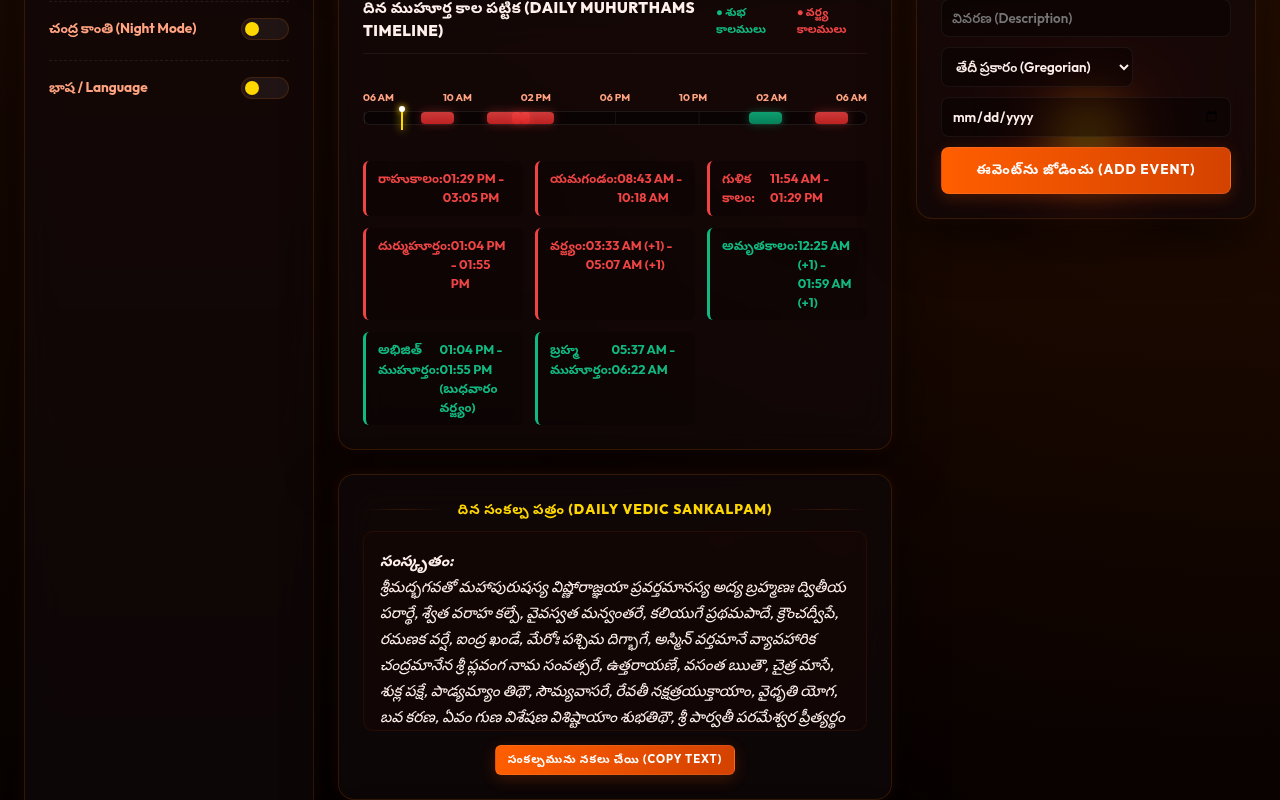
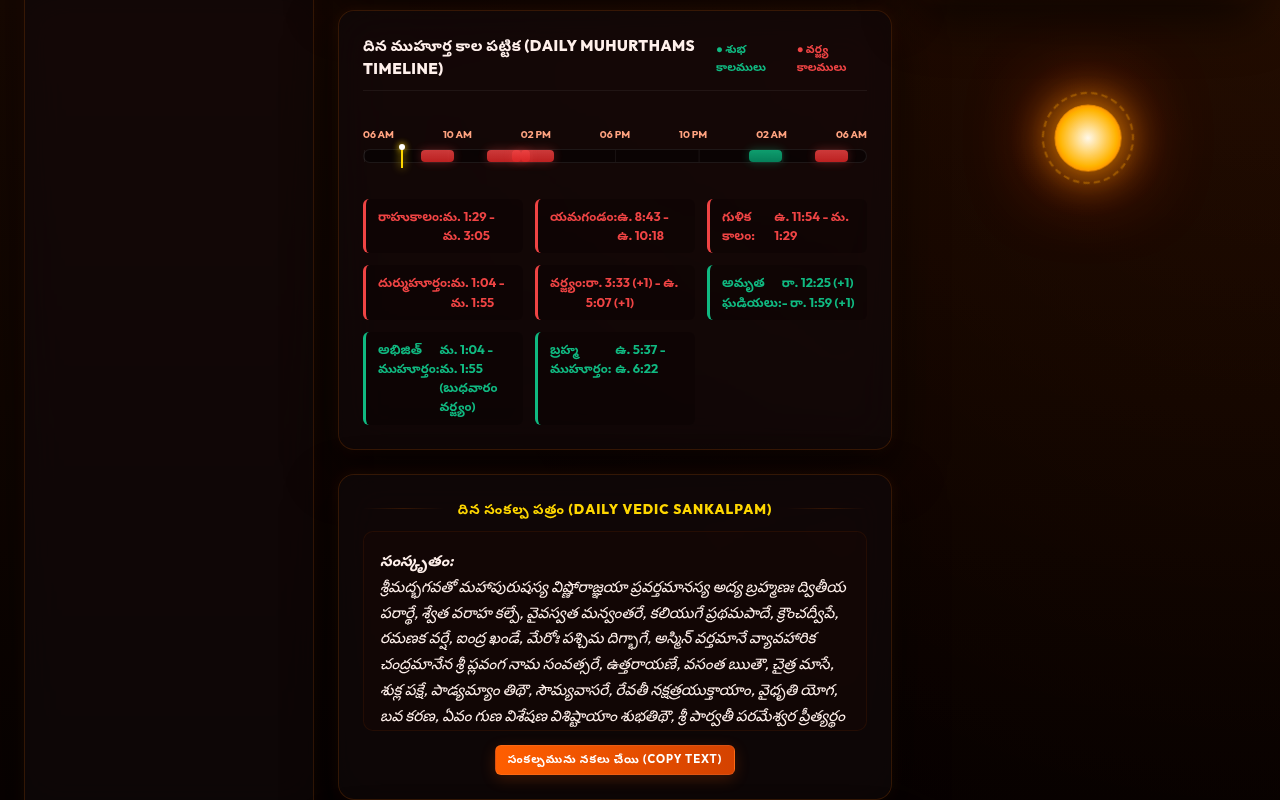
Integrate the review-plan lanes: cross-lane fixes, layout fixes, screenshots
- Show named Ekadashis in the calendar, upcoming strip and print view.
- Birthday banner text covers the janma-tithi fallback.
- One event for the Sun entering Dhanus (Dhanurmasam start), not two.
- Print view uses the Telugu day-part clock in Telugu mode.
- core/i18n tithiLabel(): no paksha prefix on Purnima and Amavasya
  (fixes 'Krishna Amavasya'); used by the new tab, print view and share card.
- Calendar grid columns use minmax(0, 1fr) so long festival badges
  truncate instead of pushing Friday/Saturday out of the card.
- Clock card: the sun path shrinks beside the clock instead of clipping
  the sunset label at 1280px.
- Screenshot script seeds a returning user so onboarding doesn't cover
  the shots; screenshots regenerated.
- Changelog and plan status updated.

Claude-Session: https://claude.ai/code/session_01Pu4SSUaa4HZ38UCLnhaiD6

diff --git a/newtab.js b/newtab.js
@@ -4,7 +4,7 @@
  */
 
 import { createEngine } from './core/index.js';
-import { name as coreName } from './core/i18n.js';
+import { name as coreName, tithiLabel } from './core/i18n.js';
 import { TITHI, MASA, NAKSHATRA } from './core/ids.js';
 import { generateSankalpam } from './core/sankalpam.js';
 import { dailyHoroscope } from './core/horoscope.js';
@@ -472,7 +472,7 @@ import { initRatingPrompt } from './ui/rating.js';
 
     // 3. Render Panchang card values (paksha + tithi, e.g. "బహుళ నవమి")
     const cal = activePanchang.calendar;
-    elPanchangTithi.textContent = `${nm(cal.paksha.id)} ${nm(p.tithi.id)}`;
+    elPanchangTithi.textContent = tithiLabel(p.tithi.id, window.I18N.getLang());
     elPanchangTithiTime.textContent = formatTransitionText(p.tithi.spans);
 
     elPanchangNaks.textContent = `${nm(p.nakshatra.id)} (${p.nakshatra.pada})`;
@@ -702,11 +702,11 @@ import { initRatingPrompt } from './ui/rating.js';
     if (festivals.length > 0) {
       const elFest = document.createElement('span');
       elFest.className = 'day-festivals';
-      elFest.textContent = nm(festivals[0].id);
+      elFest.textContent = nm(festivals[0].nameId || festivals[0].id);
       // English adds why the rule picked this day (traces are English); Telugu keeps the names.
       elFest.title = window.I18N.getLang() === 'en'
-        ? festivals.map((f) => `${coreName(f.id, 'en')}: ${traceReason(f)}`).join('\n')
-        : festivals.map((f) => `${coreName(f.id, 'te')} (${coreName(f.id, 'en')})`).join(", ");
+        ? festivals.map((f) => `${coreName(f.nameId || f.id, 'en')}: ${traceReason(f)}`).join('\n')
+        : festivals.map((f) => `${coreName(f.nameId || f.id, 'te')} (${coreName(f.nameId || f.id, 'en')})`).join(", ");
       cell.appendChild(elFest);
     }
 
@@ -739,7 +739,7 @@ import { initRatingPrompt } from './ui/rating.js';
       const shown = [...fests, ...vratas.filter((v) => !folded(v))];
       shown.forEach((ev) => {
         const twin = vratas.find((v) => v.parana && v.trace.tithi === ev.trace.tithi);
-        items.push({ date, id: ev.id, parana: ev.parana || (twin && twin.parana) });
+        items.push({ date, id: ev.nameId || ev.id, parana: ev.parana || (twin && twin.parana) });
       });
     }
 

diff --git a/print.js b/print.js
@@ -5,8 +5,8 @@
  */
 
 import { createEngine } from './core/index.js';
-import { name } from './core/i18n.js';
-import { TITHI, PAKSHA } from './core/ids.js';
+import { name, tithiLabel } from './core/i18n.js';
+import { formatClock } from './ui/time-format.js';
 
 const engine = createEngine({ Astronomy: window.Astronomy });
 const { I18N } = window;
@@ -20,7 +20,6 @@ const COLUMNS = [
 
 const unique = (list) => [...new Set(list)];
 const isFestival = (e) => e.id.startsWith('FESTIVAL_');
-const pakshaOf = (tithiId) => (TITHI.indexOf(tithiId) < 15 ? PAKSHA.SHUKLA : PAKSHA.KRISHNA);
 const storageGet = (key) => new Promise((resolve) => chrome.storage.local.get([key], (r) => resolve(r[key])));
 
 // A <tr> of `tag` cells holding the given texts.
@@ -94,7 +93,8 @@ async function render() {
 
   document.getElementById('print-head').replaceChildren(rowOf('th', COLUMNS.map(([te, en]) => I18N.teEn(te, en))));
 
-  const formatTime = (d) => d.toLocaleTimeString('en-US', { hour: 'numeric', minute: '2-digit', timeZone: tz });
+  // Telugu-style day-part clock (రా. 10:42) in Telugu, compact 12-hour time in English, as on the new tab.
+  const formatTime = (d) => (lang === 'en' ? d.toLocaleTimeString('en-US', { hour: 'numeric', minute: '2-digit', timeZone: tz }) : formatClock(d, tz, 'te'));
   document.getElementById('print-rows').replaceChildren(...days.map((day, i) => {
     // Clock time, with "(+1)" when it falls after midnight of this row's day, as on the new tab.
     const at = (instant) => {
@@ -117,7 +117,7 @@ async function render() {
     const row = rowOf('td', [
       String(i + 1),
       I18N.t(WEEKDAYS[p.vara.index]),
-      until(p.tithi.spans, (id) => `${nm(pakshaOf(id))} ${nm(id)}`),
+      until(p.tithi.spans, (id) => tithiLabel(id, lang)),
       until(p.nakshatra.spans, nm),
       nm(p.yoga.id),
       formatTime(day.astronomy.sunrise),
@@ -125,7 +125,7 @@ async function render() {
       win(tm.rahuKalam),
       wins(tm.durmuhurtham),
       wins(tm.varjyam),
-      unique(events.map((e) => nm(e.id))).join('\n')
+      unique(events.map((e) => nm(e.nameId || e.id))).join('\n')
     ]);
     if (events.some(isFestival)) row.classList.add('festival');
     return row;

diff --git a/newtab.css b/newtab.css
@@ -670,7 +670,8 @@ input:checked + .slider:before {
 }
 .hero-grid {
   display: grid;
-  grid-template-columns: 1fr 1fr;
+  /* The clock keeps its natural width; the sun path takes what is left and shrinks, never spills */
+  grid-template-columns: auto minmax(0, 1fr);
   align-items: center;
   gap: 16px;
 }
@@ -680,7 +681,7 @@ input:checked + .slider:before {
   }
 }
 .clock-display {
-  font-size: 3.6rem;
+  font-size: clamp(2.6rem, 4.2vw, 3.6rem);
   font-weight: 800;
   color: var(--accent-secondary);
   text-shadow: 0 0 15px var(--accent-secondary), 0 0 30px var(--accent-primary);
@@ -701,12 +702,16 @@ input:checked + .slider:before {
   gap: 8px;
 }
 #sun-path-svg {
+  flex: 1 1 auto;
+  min-width: 60px;
   width: 100%;
   max-width: 180px;
   height: auto;
   overflow: visible;
 }
 .arc-label-left, .arc-label-right {
+  min-width: 0;
+  text-align: center;
   font-size: 0.65rem;
   font-weight: 700;
   text-transform: uppercase;
@@ -1017,7 +1022,8 @@ input:checked + .slider:before {
 
 .calendar-grid-container {
   display: grid;
-  grid-template-columns: repeat(7, 1fr);
+  /* minmax(0, 1fr): a long festival badge must truncate, not widen its column past the card */
+  grid-template-columns: repeat(7, minmax(0, 1fr));
   gap: 8px;
 }
 .grid-weekday-header {
@@ -1036,6 +1042,7 @@ input:checked + .slider:before {
   display: flex;
   flex-direction: column;
   justify-content: space-between;
+  min-width: 0;
   cursor: pointer;
   transition: all 0.3s cubic-bezier(0.16, 1, 0.3, 1);
 }

diff --git a/i18n.js b/i18n.js
@@ -16,7 +16,7 @@
     te: {
       btnBirthDetails: 'జన్మ వివరాలు',
       birthdayGreeting: 'జన్మదిన శుభాకాంక్షలు! 🎉',
-      birthdayDesc: 'ఈ రోజు మీ జన్మ నక్షత్రయుక్త పుట్టినరోజు. సకల శుభాలు కలుగుగాక!',
+      birthdayDesc: 'ఈ రోజు మీ తెలుగు పుట్టినరోజు (జన్మ నక్షత్రం లేదా తిథి ప్రకారం). సకల శుభాలు కలుగుగాక!',
       locGeoUnavailable: 'ఈ బ్రౌజర్లో స్థాన గుర్తింపు అందుబాటులో లేదు.',
       locLocating: 'స్థానం కనుగొనబడుతోంది...',
       locUnavailable: 'స్థానం లభించలేదు, దయచేసి నగరాన్ని ఎంచుకోండి.',
@@ -48,7 +48,7 @@
     en: {
       btnBirthDetails: 'Birth Details',
       birthdayGreeting: 'Happy Birthday! 🎉',
-      birthdayDesc: 'Today is your birth-nakshatra birthday. Wishing you all happiness!',
+      birthdayDesc: 'Today is your Telugu birthday (by birth nakshatra or tithi). Wishing you all happiness!',
       locGeoUnavailable: 'Geolocation is not available in this browser.',
       locLocating: 'Locating...',
       locUnavailable: 'Location unavailable, please pick a city.',

diff --git a/core/i18n.js b/core/i18n.js
@@ -96,7 +96,6 @@ const NAMES = {
   SANKRANTI_KANYA: { te: 'కన్యా సంక్రమణం', en: 'Kanya Sankranti' },
   SANKRANTI_TULA: { te: 'తులా సంక్రమణం', en: 'Tula Sankranti' },
   SANKRANTI_VRISCHIKA: { te: 'వృశ్చిక సంక్రమణం', en: 'Vrischika Sankranti' },
-  SANKRANTI_DHANUS: { te: 'ధనుస్సంక్రమణం', en: 'Dhanus Sankranti' },
   SANKRANTI_KUMBHA: { te: 'కుంభ సంక్రమణం', en: 'Kumbha Sankranti' },
   SANKRANTI_MEENA: { te: 'మీన సంక్రమణం', en: 'Meena Sankranti' },
 
@@ -132,6 +131,12 @@ const NAMES = {
 export function name(id, lang = 'te') {
   const n = NAMES[id];
   return n ? n[lang] || n.en : id;
+}
+
+// A tithi with its paksha ("శుద్ధ సప్తమి", "Krishna Ashtami"); Purnima and Amavasya stand alone.
+export function tithiLabel(id, lang = 'te') {
+  if (id === 'TITHI_PURNIMA' || id === 'TITHI_AMAVASYA') return name(id, lang);
+  return `${name(id.startsWith('TITHI_SHUKLA_') ? 'PAKSHA_SHUKLA' : 'PAKSHA_KRISHNA', lang)} ${name(id, lang)}`;
 }
 
 export const ALL_NAMES = NAMES;

diff --git a/core/test/observances.test.js b/core/test/observances.test.js
@@ -100,7 +100,6 @@ test('Mahalaya paksham, sankrantis, Dhanurmasam and Karthika masam start on thei
     FESTIVAL_MAHALAYA_PAKSHAM_START: '2026-09-27', // Bhadrapada bahula padyami
     SANKRANTI_MESHA: '2026-04-14',
     SANKRANTI_KARKATAKA: '2026-07-17',
-    SANKRANTI_DHANUS: '2026-12-16',
     FESTIVAL_DHANURMASA_START: '2026-12-16',
     FESTIVAL_KARTHIKA_MASA_START: '2026-11-10' // new moon 9 Nov after sunrise; first Karthika sunrise is 10 Nov
   };
@@ -109,4 +108,5 @@ test('Mahalaya paksham, sankrantis, Dhanurmasam and Karthika masam start on thei
   }
   assert.ok(!eventsOn('2026-11-09').some((e) => e.id === 'FESTIVAL_KARTHIKA_MASA_START'));
   assert.ok(!engine.profiles.observance.rules.some((r) => r.id === 'SANKRANTI_MAKARA'), 'Makara is FESTIVAL_MAKARA_SANKRANTI');
+  assert.ok(!engine.profiles.observance.rules.some((r) => r.id === 'SANKRANTI_DHANUS'), 'Dhanus is FESTIVAL_DHANURMASA_START');
 });

diff --git a/core/test/i18n.test.js b/core/test/i18n.test.js
@@ -11,6 +11,14 @@ test('every canonical ID and every rule has a Telugu and English name', () => {
   assert.deepEqual(missing, []);
 });
 
+test('tithiLabel adds the paksha except for Purnima and Amavasya', async () => {
+  const { tithiLabel } = await import('../i18n.js');
+  assert.equal(tithiLabel('TITHI_SHUKLA_SAPTAMI', 'te'), 'శుద్ధ సప్తమి');
+  assert.equal(tithiLabel('TITHI_KRISHNA_ASHTAMI', 'en'), 'Krishna Ashtami');
+  assert.equal(tithiLabel('TITHI_AMAVASYA', 'en'), 'Amavasya');
+  assert.equal(tithiLabel('TITHI_PURNIMA', 'te'), 'పౌర్ణమి');
+});
+
 test('Telugu names use only Telugu script (catches Devanagari or Latin slipping in)', () => {
   const bad = Object.entries(ALL_NAMES).filter(([, n]) => !/^[ఀ-౿\s/()]+$/.test(n.te)).map(([id, n]) => `${id}: ${n.te}`);
   assert.deepEqual(bad, []);

diff --git a/ui/share-card.js b/ui/share-card.js
@@ -1,6 +1,6 @@
 // "Share today's panchangam" (review §4.6): draws the viewed day on a 1080x1350 PNG with the bundled fonts,
 // copies it to the clipboard and offers it as a download. Everything happens on the device.
-import { name } from '../core/i18n.js';
+import { name, tithiLabel } from '../core/i18n.js';
 
 const W = 1080;
 const H = 1350;
@@ -104,7 +104,7 @@ async function drawCard(day, { lang, city, date, time, timeWindow }, L) {
   const rows = [
     [L.samvatsara, [nm(cal.samvatsara.id)]],
     [L.masa, [(cal.masa.adhika ? `${L.adhika} ` : '') + nm(cal.masa.id)]],
-    [L.tithi, [`${nm(cal.paksha.id)} ${nm(p.tithi.id)}`]],
+    [L.tithi, [tithiLabel(p.tithi.id, lang)]],
     [L.nakshatra, [nm(p.nakshatra.id)]],
     [L.sunrise, [time(sky.sunrise)]],
     [L.sunset, [time(sky.sunset)]],

diff --git a/newtab.html b/newtab.html
@@ -34,7 +34,7 @@
 
   <div id="birthday-banner" class="birthday-card-overlay" style="display: none;">
     <h2 id="birthday-greeting" data-i18n="birthdayGreeting">జన్మదిన శుభాకాంక్షలు! 🎉</h2>
-    <p id="birthday-desc" data-i18n="birthdayDesc">ఈ రోజు మీ జన్మ నక్షత్రయుక్త పుట్టినరోజు. సకల శుభాలు కలుగుగాక!</p>
+    <p id="birthday-desc" data-i18n="birthdayDesc">ఈ రోజు మీ తెలుగు పుట్టినరోజు (జన్మ నక్షత్రం లేదా తిథి ప్రకారం). సకల శుభాలు కలుగుగాక!</p>
   </div>
 
   <!-- One-time rating prompt (ui/rating.js) -->

diff --git a/core/profiles/observance/andhra-telangana.js b/core/profiles/observance/andhra-telangana.js
@@ -99,8 +99,9 @@ export default {
     t('FESTIVAL_MAHA_SHIVARATRI', 'MASA_MAGHA', 'TITHI_KRISHNA_CHATURDASHI', 'nishita'),
     // Phalguna
     t('FESTIVAL_HOLI', 'MASA_PHALGUNA', 'TITHI_PURNIMA', 'pradosha'),
-    // The other eleven sankramanams (Makara is FESTIVAL_MAKARA_SANKRANTI above): SANKRANTI_MESHA, ...
-    ...RASI.filter((rasi) => rasi !== 'RASI_MAKARA')
+    // The other sankramanams: SANKRANTI_MESHA, ... Makara is FESTIVAL_MAKARA_SANKRANTI and Dhanus is
+    // FESTIVAL_DHANURMASA_START above, so they aren't listed twice on the same day.
+    ...RASI.filter((rasi) => rasi !== 'RASI_MAKARA' && rasi !== 'RASI_DHANUS')
       .map((rasi) => ({ id: rasi.replace('RASI_', 'SANKRANTI_'), type: 'solar', rasi, offsetDays: 0 })),
 
     // Recurring every month

diff --git a/CHANGELOG.md b/CHANGELOG.md
@@ -15,10 +15,21 @@ _Nothing yet._
 - Sankalpam names the tithi and nakshatra current when you read it today, the day's actual yoga and karana, and uses a location line that fits the city (Andhra/Telangana, elsewhere in India, or the Americas form used by US Telugu priests).
 
 ### Added
+- First-run setup: language, then city (US metros first for US time zones), then optional birth details; existing users skip it.
+- "Upcoming this week" strip with Ekadashi parana times; Moon sign and కార్తె row; Telugu panchangam time style (ఉ./మ./సా./రా.) in Telugu mode; "Panchangam reference" setting (Drik, Telugu) with a calculation note.
+- Share today's panchangam as a 1080×1350 image (copied to the clipboard, with a download link). A one-time "Rate us" banner on a festival day after 14 days of use.
+- Printable monthly panchangam page (Print month button under the calendar).
+- Named Ekadashis (Kamada … Papamochani, Padmini and Parama in adhika masa), Mahalaya paksham, every sankramanam, Dhanurmasam and Karthika masam start. Krishnashtami prefers Rohini and Vijayadashami prefers Shravana when the tithi spans two days.
+- The Telugu birthday banner fires once per year: the first day of the birth masa with the janma nakshatra at sunrise (else the janma tithi). Saving a date of birth pre-selects the janma rasi unless you picked one yourself.
+- Telugu and English extension name and description (`_locales`).
 - Gulika Kalam and Brahma Muhurtham timings; Varjyam and Amrita Kalam for every nakshatra in the day; nakshatra pada.
 - Festivals and vratas: Bathukamma (Engili Pula, Saddula), Bonalu, Atla Tadde, Undralla Tadde, Nagula Panchami, Narasimha Jayanti, Karthika Somavaram, Shravana Mangalavaram, Utthana Ekadashi, Ksheerabdi Dwadashi; every Ekadashi with parana time, Sankashti Chaturthi, Pradosham, Masa Shivaratri, Purnima and Amavasya.
 
+### Removed
+- The `geolocation` permission. Chrome doesn't allow it as an optional permission, so declaring it showed a location warning at install for a feature most people never use; "Use My Location" now gets Chrome's own prompt when clicked.
+
 ### Fixed
+- The monthly calendar could overflow its card and hide Friday/Saturday; the clock card no longer clips the sunrise/sunset labels at 1280px.
 - Durmuhurtham was wrong on Sunday, Monday, Tuesday and Friday.
 - The Telugu year (samvatsara) changed on 1 March instead of at Ugadi.
 - Yoga and karana were taken at midday while tithi and nakshatra used sunrise.

diff --git a/docs/plans/2026-10-03-complete-review-plan.md b/docs/plans/2026-10-03-complete-review-plan.md
@@ -38,3 +38,22 @@ script only, no `innerHTML` with dynamic values, zero network requests.
 2. Merge lanes in order A, B, C, D, E, F, G; resolve hook conflicts in `newtab.*`.
 3. Full test run, headless load as page and as unpacked extension, whole-diff review.
 4. Regenerate store screenshots from the real UI; update changelog; push.
+
+## Status (2026-10-04)
+
+Lanes A–G implemented in parallel worktrees, each reviewed by two independent reviewers and
+fixed, then merged. Integration fixes: named Ekadashis shown in the calendar, upcoming strip and
+print view; birthday text covers the tithi fallback; one entry for the Sun entering Dhanus;
+Telugu-style times in the print view; `tithiLabel` (no paksha on Purnima/Amavasya); calendar-grid
+and clock-card overflow; screenshot script seeds a returning user. 98 tests, both validators'
+local checks, and headless runs (fresh install, Dallas/English, Hyderabad/Telugu, print page,
+share image) pass with zero console errors and zero external requests.
+
+Needs the owner:
+- Board sign-off on the `CHROMEWEBSTORE.md` geolocation row and the ADR 0001 amendment
+  (geolocation removed from `manifest.json`).
+- Approve the listing-copy draft and swap in the new screenshots from `docs/marketing/screenshots/`.
+- Confirm on a real Chrome profile that "Use My Location" shows Chrome's location prompt.
+- Owner decisions listed in `docs/marketing/launch-kit.md` and lane notes: Mahalaya paksham start
+  convention, Padmini Ekadashi / Karkataka sankramanam dates once Drik is reachable.
+- Drik/TTD reference fixtures (blocked by network), then the release workflow (bump=major).
